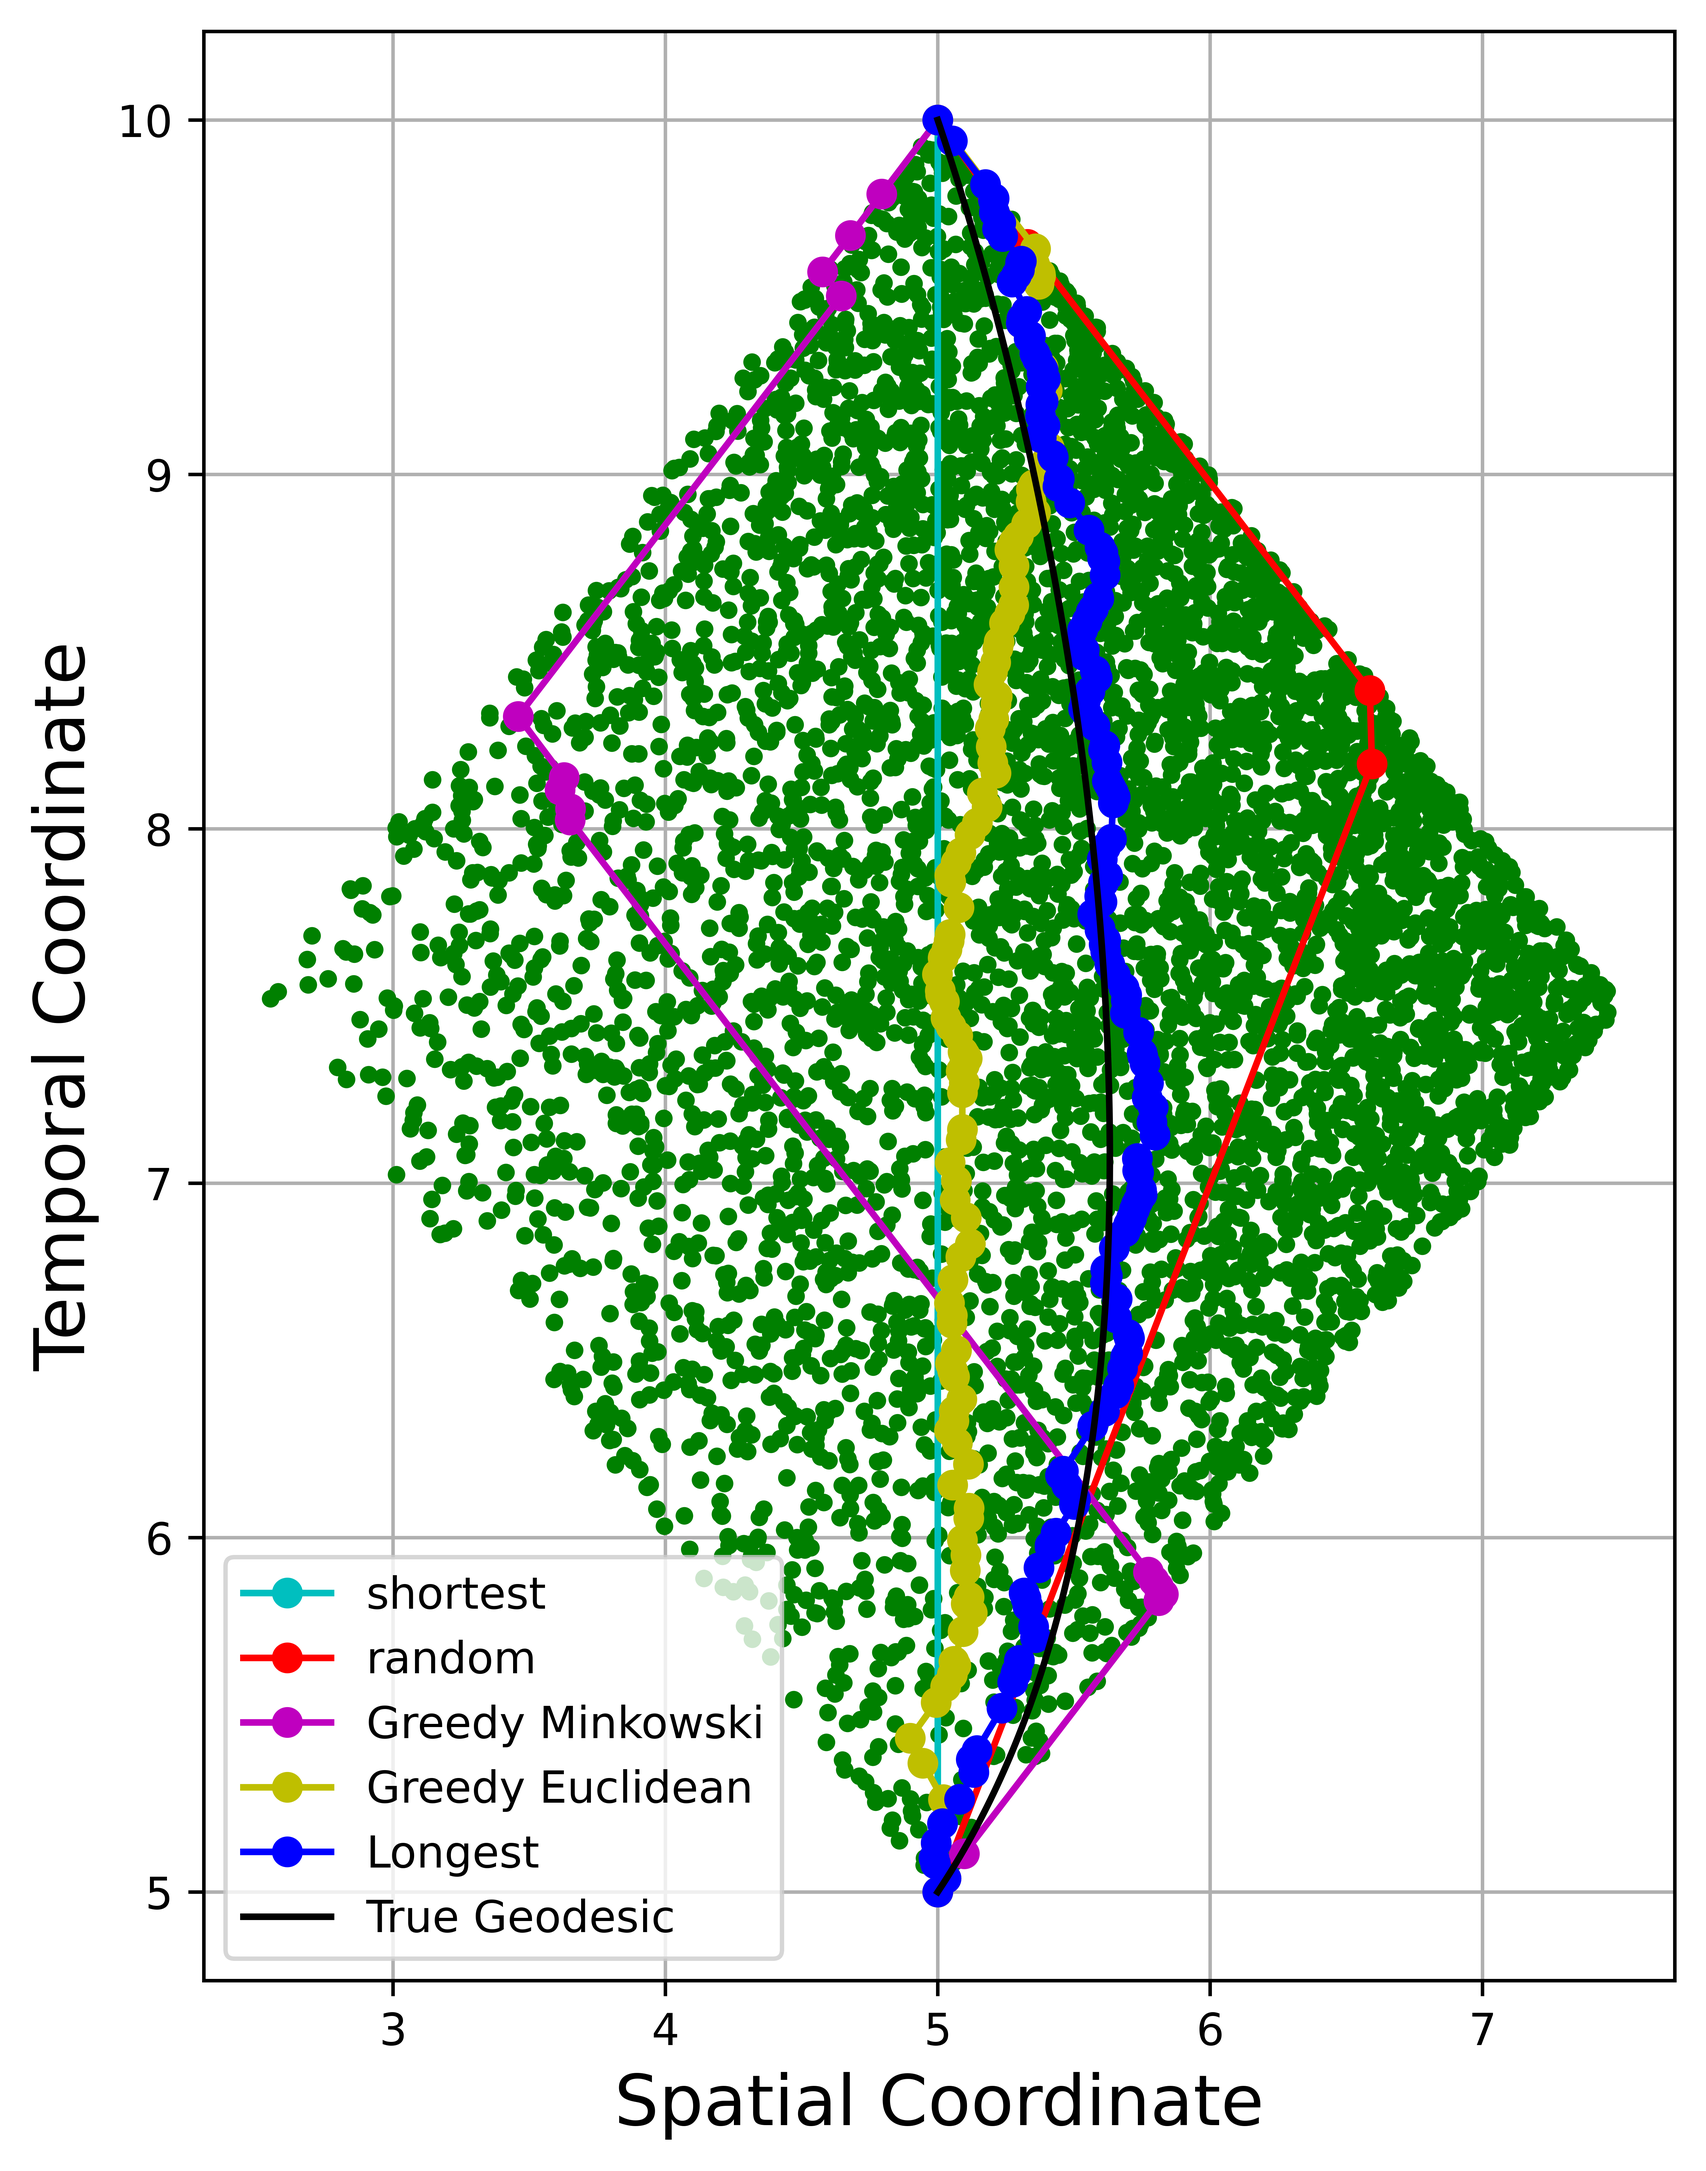
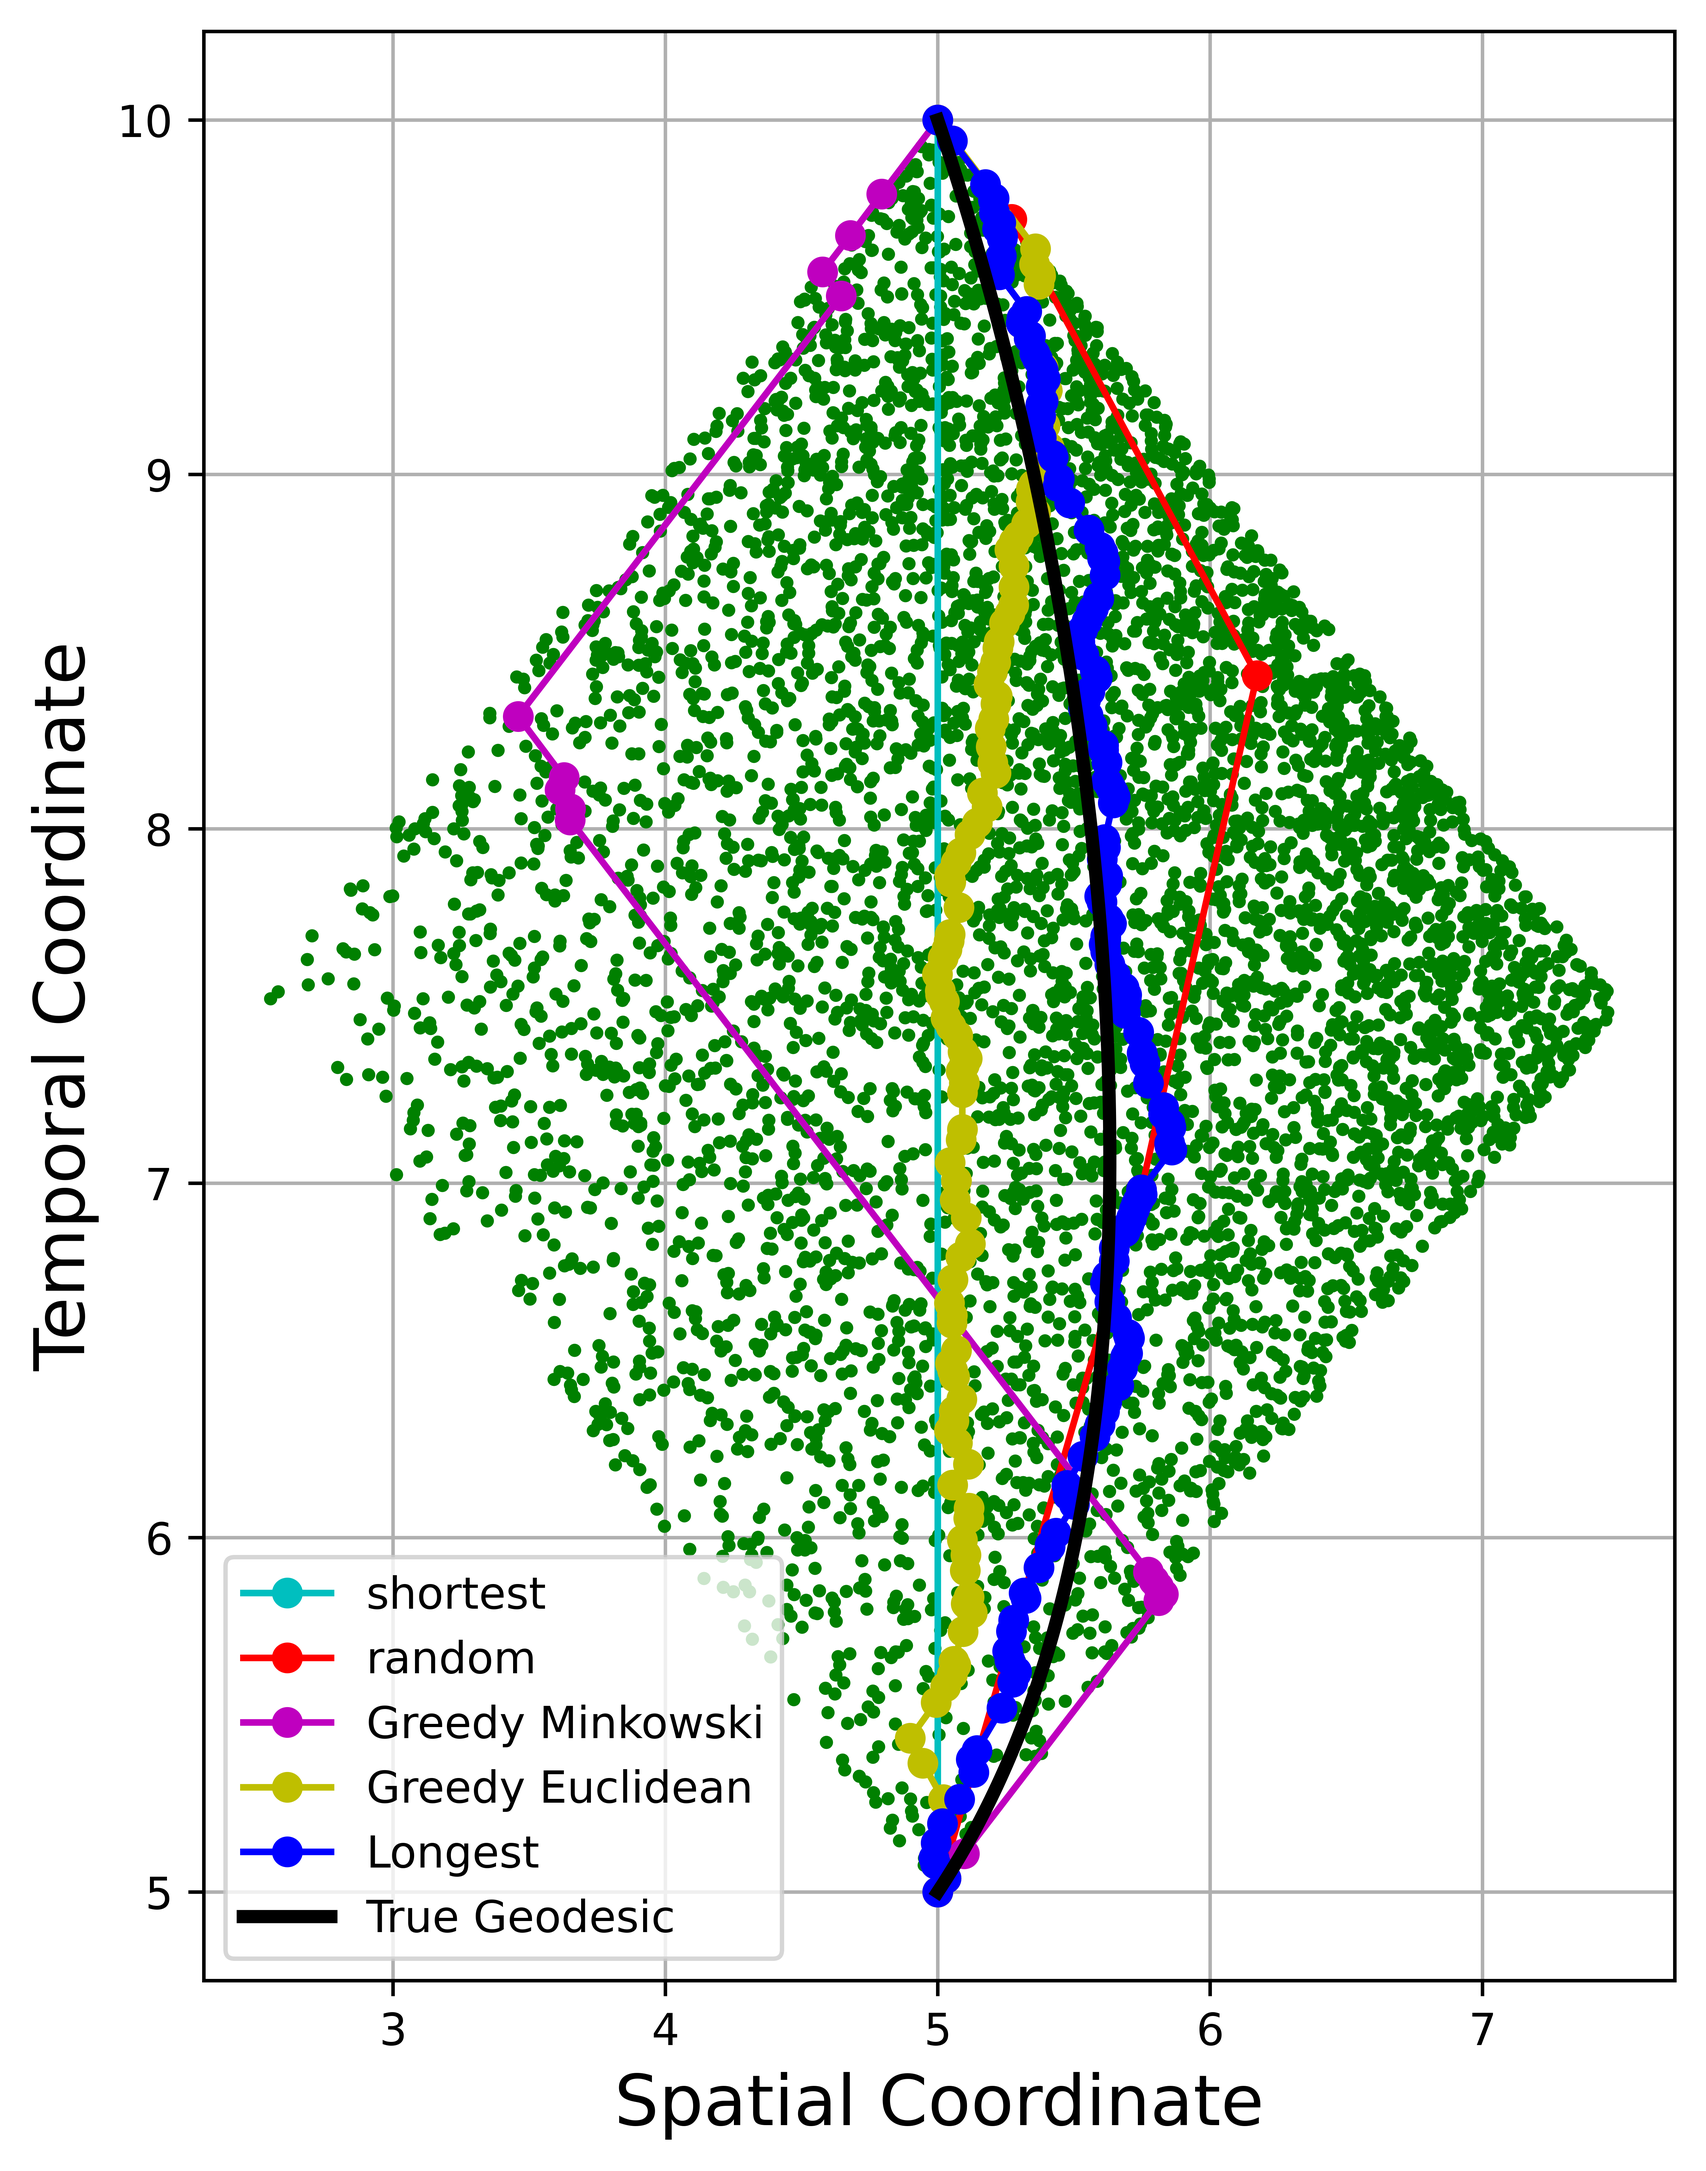
thick boi

Changed region(s): [[0.1558, 0.0624, 0.9345, 0.8422], [0.5296, 0.8422, 0.5607, 0.8733]]

diff --git a/src/adaptable_objects/conformal/conformal_rgg.py b/src/adaptable_objects/conformal/conformal_rgg.py
@@ -302,7 +302,7 @@ class Network:
         # mask = np.array([i for i in range(self.n) if i in self.connected_interval])
         # plt.plot(self.poses[:, 1][mask], self.poses[:, 0][mask], "g,")
 
-        plt.plot(self.poses[:, 1], self.poses[:, 0], "g.")
+        plt.plot(self.poses[:, 1], self.poses[:, 0], "g.", markersize=4)
 
         if show_paths:
             s_mask = np.array([i & 0b00010 for i in self.paths])
@@ -324,7 +324,7 @@ class Network:
             xs = geodesic(ts)
             plt.grid(which="major")
             plt.grid(which="minor")
-            plt.plot(xs, ts, color="k", label="True Geodesic")
+            plt.plot(xs, ts, color="k", linewidth=3.0, zorder=100, label="True Geodesic")
 
     def graph(self):
         swapped_poses = self.poses
